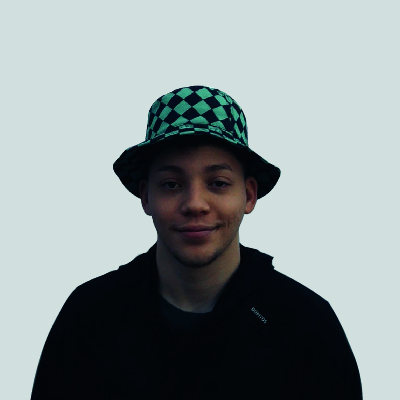
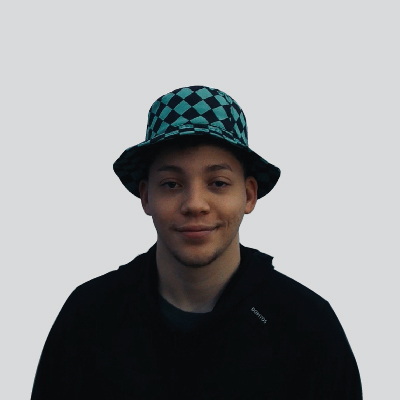
ImagemUpdate

Changed region(s): [[0.33, 0.36, 0.66, 0.78], [0.45, 0.21, 0.63, 0.33], [0.57, 0.33, 0.63, 0.36]]

diff --git a/about.html b/about.html
@@ -54,7 +54,7 @@
     </header>
     <main class="conteudo-sobre">
         <div class="polaroide-format">
-            <img class="eu-imagem" src="/assets/Eu1.jpg">
+            <img class="eu-imagem" src="/assets/Eu.jpg">
             <h4 class="nome">João</h4>
         </div>
         <section class="position-txt">

diff --git a/styles/style.css b/styles/style.css
@@ -76,6 +76,7 @@ body{
     padding-top: 2%;
 
     border-color: var(--cor--branca);
+    background-color: var(--cor--branca);
 
     border-bottom: 30px solid var(--cor--branca);
     border-top: 10px solid var(--cor--branca);
